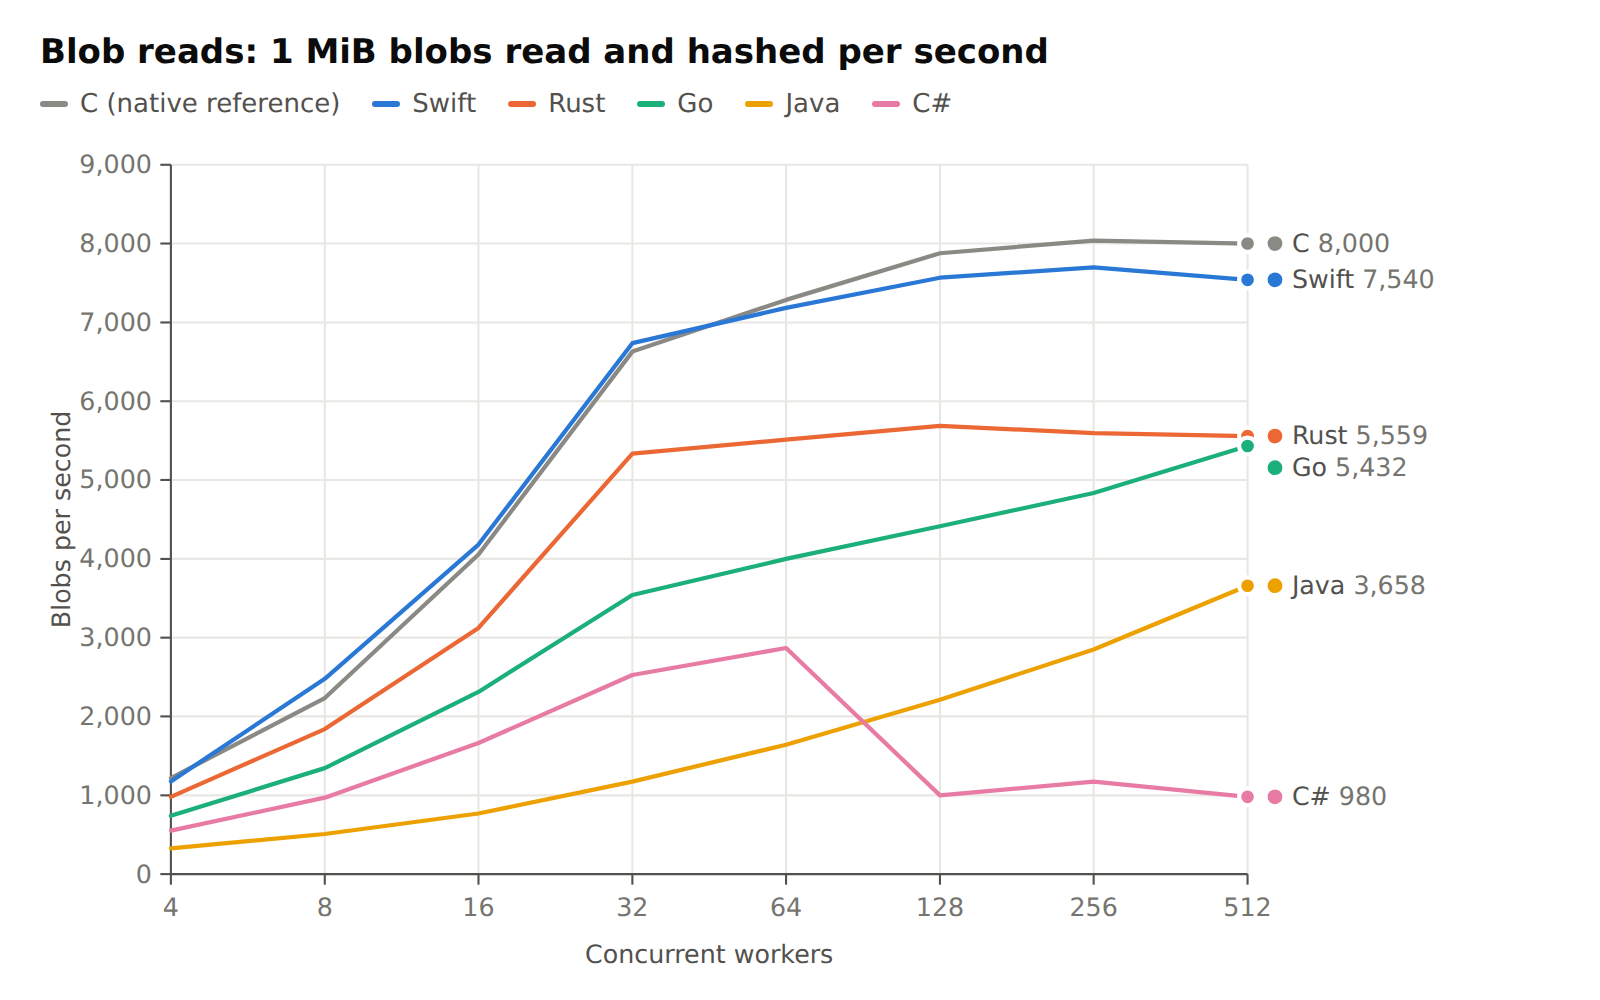
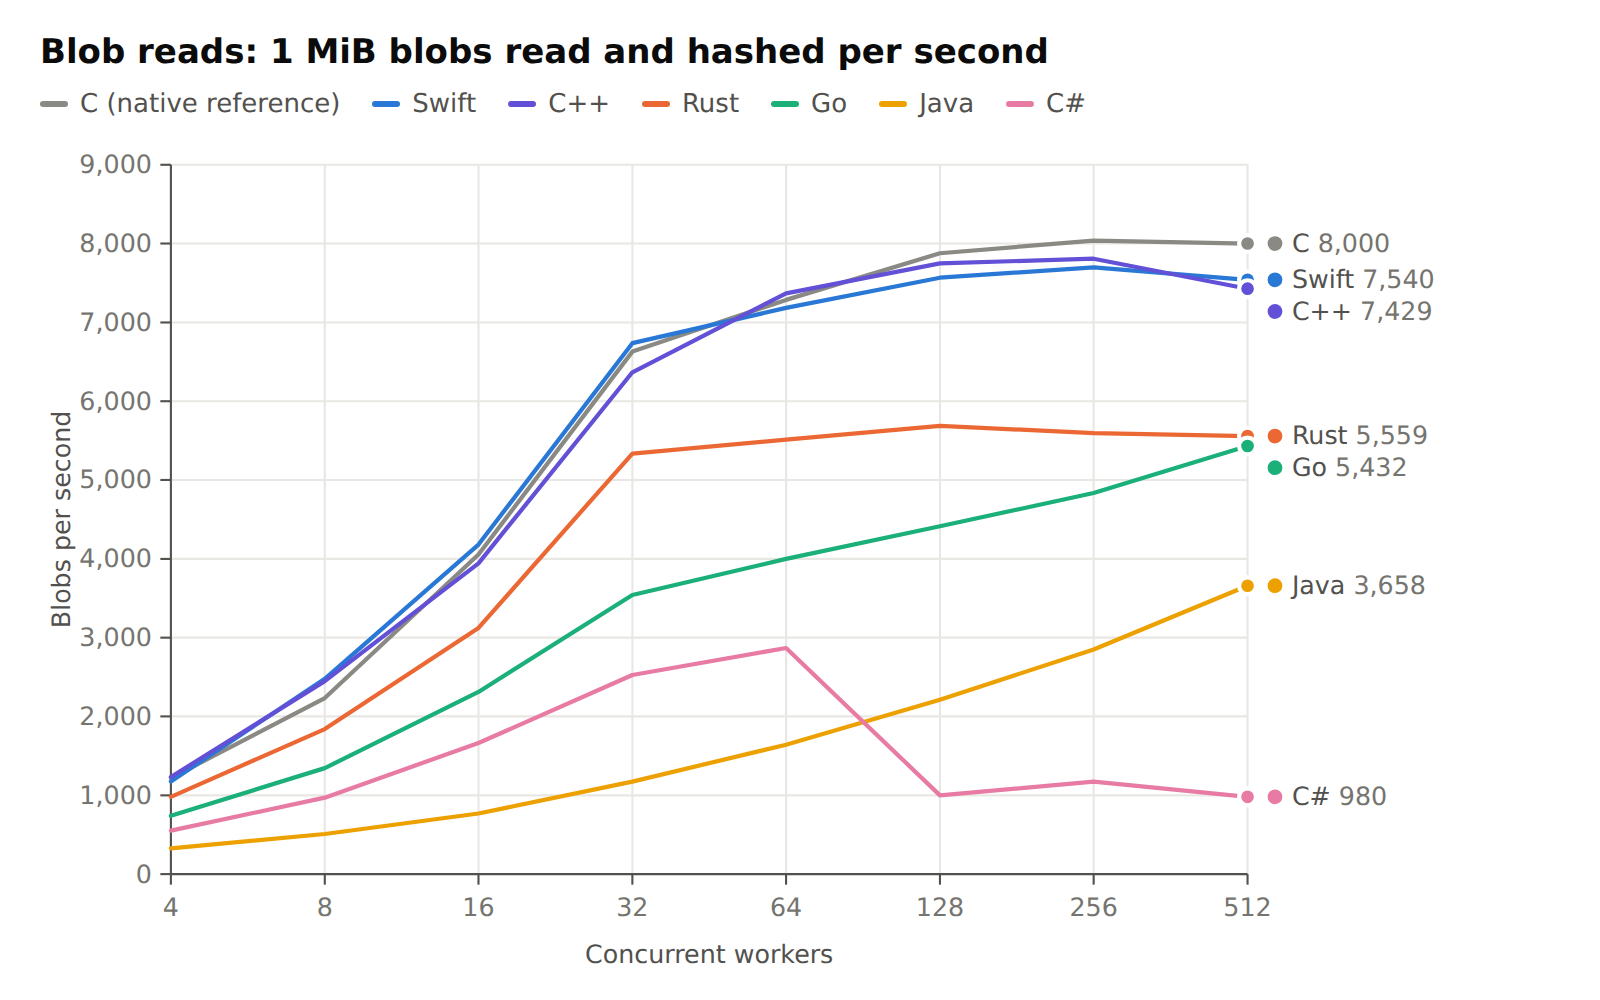
blog: add C++ to part 3's blob-read chart
Claude-Session: https://claude.ai/code/session_01DVm3N343MAy56E6DLkPUGX

diff --git a/blog/build_charts.py b/blog/build_charts.py
@@ -465,6 +465,8 @@ def build_post_compiled():
     svg = line_chart_svg(2, series, ymax=30e6, ytick=5e6, tick_fmt=fmt_tick_m,
                          end_fmt=fmt_m, ylabel="Rows per second", label_dots=True)
     render("post-compiled-w2", page("Integer reads: rows read and summed per second", svg, series))
+    # Blob reads add C++ (reference palette slot 7, violet).
+    series = series[:2] + [("cpp", "C++", "#6250d6")] + series[2:]
     svg = line_chart_svg(4, series, ymax=9e3, ytick=1e3, tick_fmt=lambda t: f"{t:,.0f}",
                          end_fmt=lambda v: f"{v:,.0f}", ylabel="Blobs per second", left=62, label_dots=True)
     render("post-compiled-w4", page("Blob reads: 1 MiB blobs read and hashed per second", svg, series))
